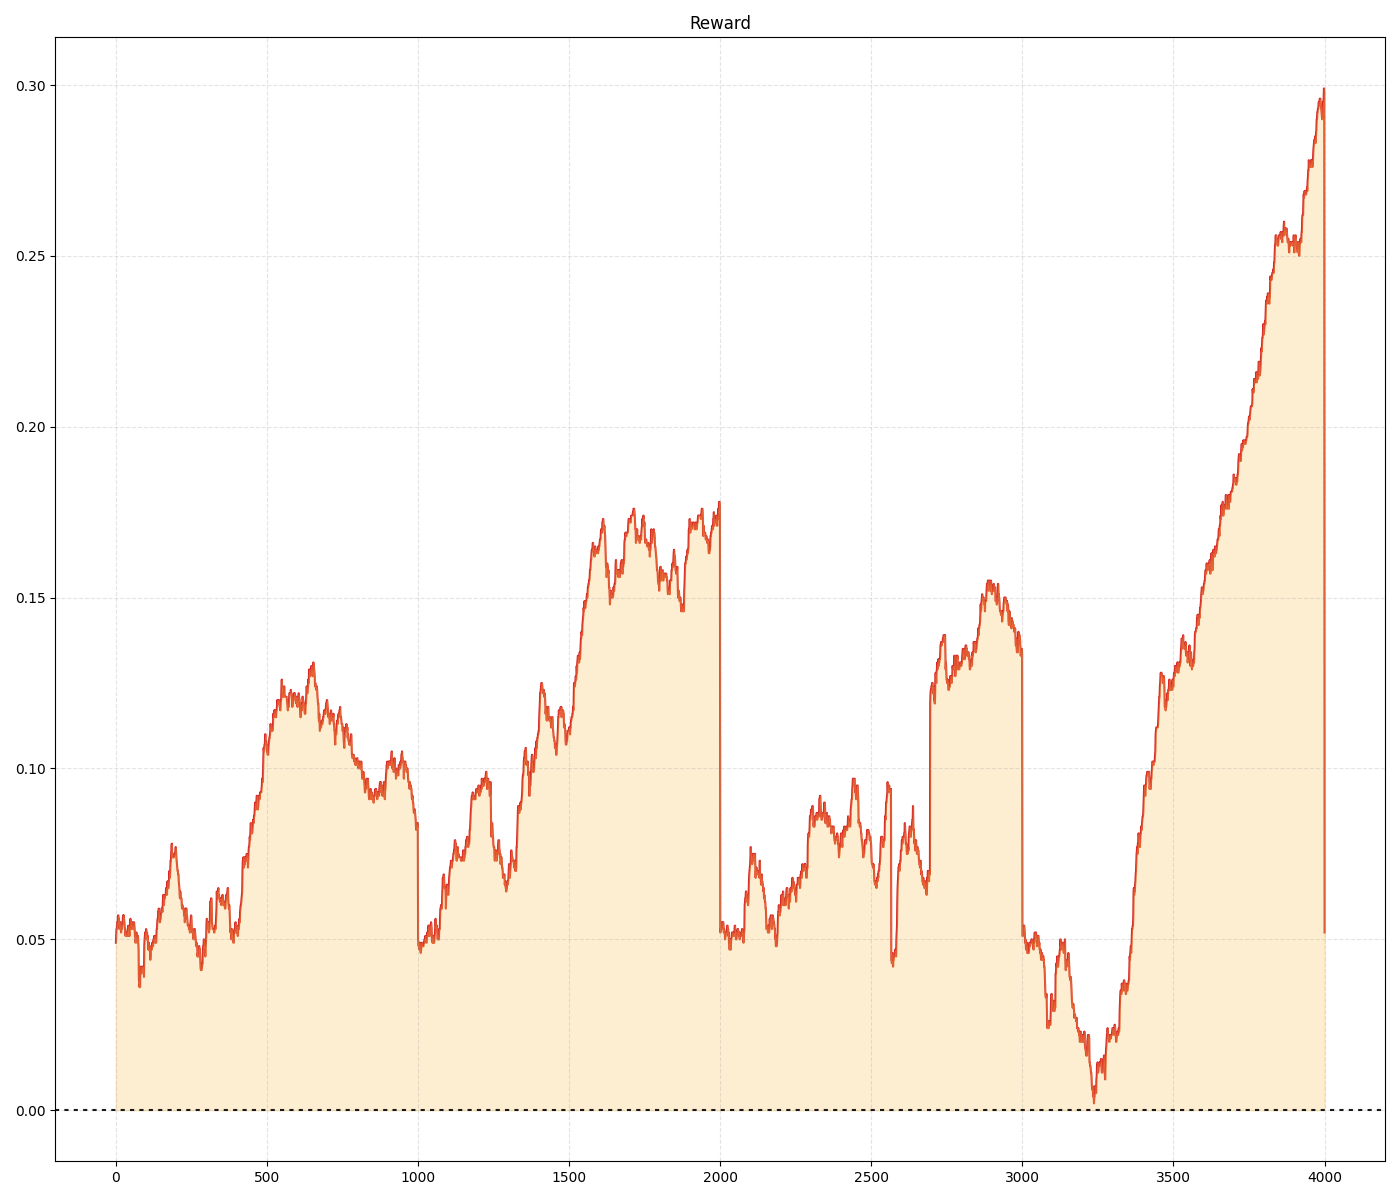
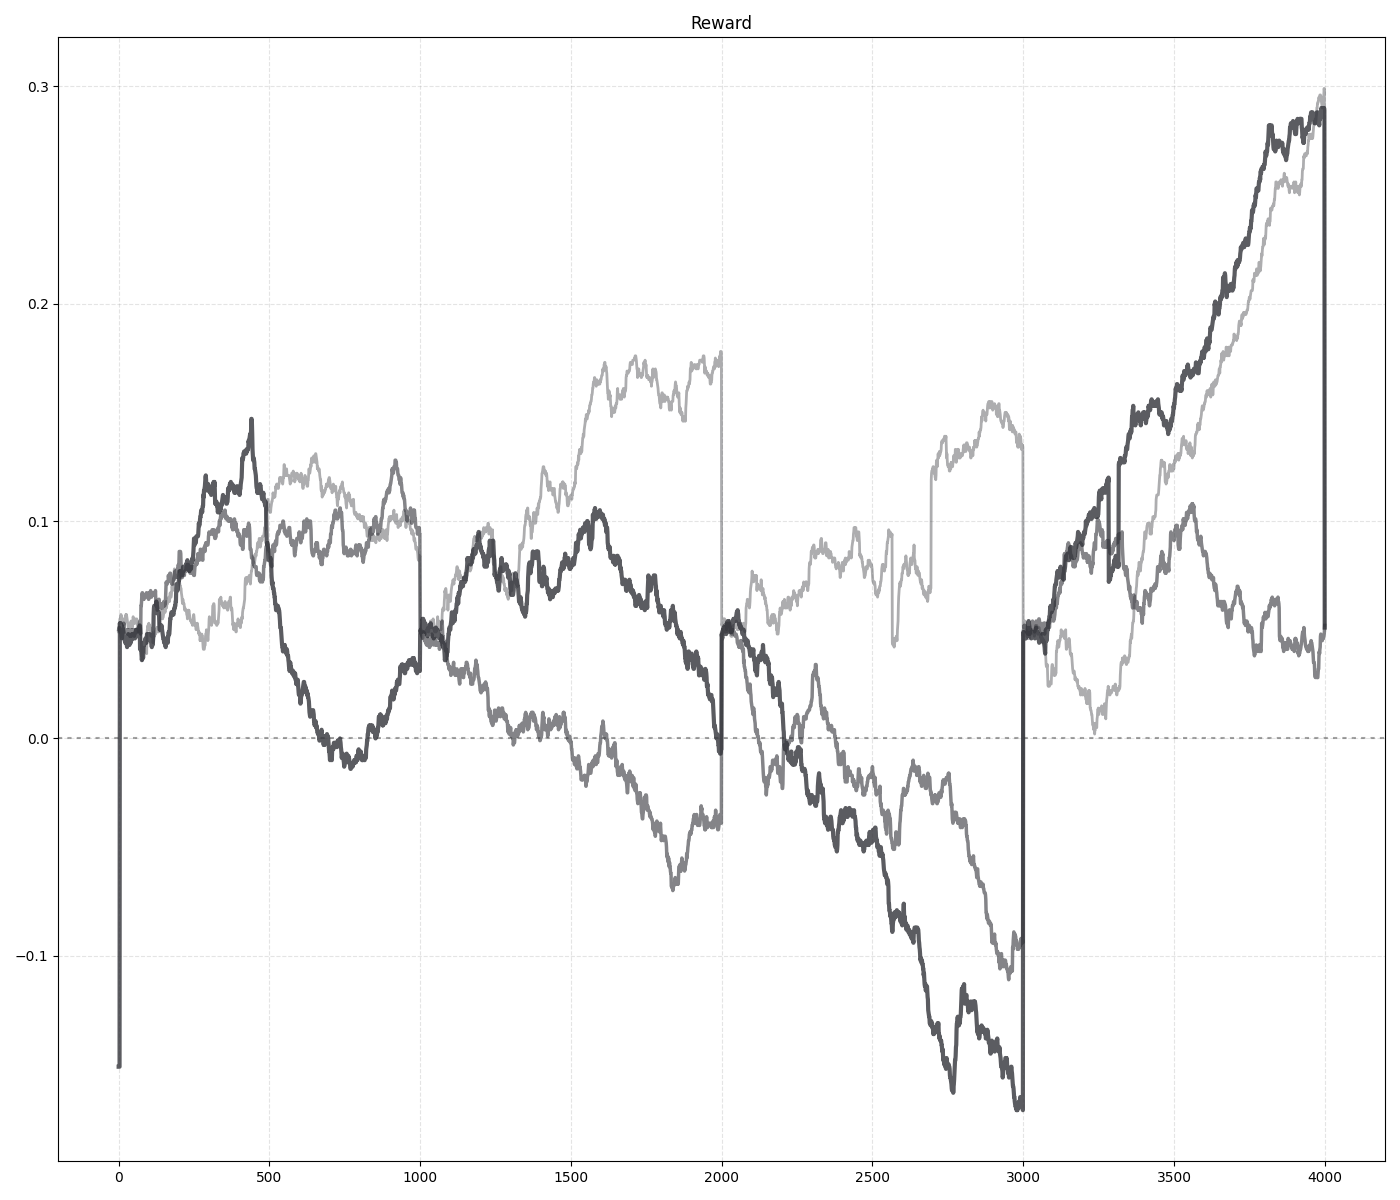
old data on graph

diff --git a/graphlab.py b/graphlab.py
@@ -1,60 +1,115 @@
 import matplotlib.pyplot as plt
 import numpy as np
-import random
+import pickle
 
-
-red_light   = [220/255, 100/255, 100/255]
 red_dark    = [97 /255, 0  /255, 6  /255]
-green_light = [100/255, 200/255, 100/255]
+red_light   = [220/255, 100/255, 100/255]
+orange_dark = [214/255, 40 /255, 40 /255]
+orange      = [255/255, 127/255, 17 /255]
+peach       = [255/255, 176/255, 144/255]
+yellow      = [252/255, 191/255, 73 /255]
+
 green_dark  = [80 /255, 180/255, 80 /255]
+green_light = [100/255, 200/255, 100/255]
+
+teal_dark   = [40 /255, 90 /255, 72 /255]
+teal_medium = [64 /255, 138/255, 113/255]
+teal_light  = [176/255, 228/255, 204/255]
+
+blue_dark   = [56 /255, 82 /255, 180/255]
 blue_light  = [100/255, 100/255, 220/255]
-orange      = [232/255, 127/255, 36 /255]
+
+purple      = [93 /255, 28 /255, 106/255]
+pink        = [202/255, 89 /255, 149/255]
+
 black       = [50 /255, 51 /255, 57 /255]
 true_black  = [0.1,0.1,0.1]
 gray        = [150/255, 150/255, 150/255]
 white       = [1, 1, 1]
 
-teal_light  = [176/255, 228/255, 204/255]
-teal_medium = [64 /255, 138/255, 113/255]
-teal_dark   = [40 /255, 90 /255, 72 /255]
-teal_black  = [9  /255, 20 /255, 19 /255]
+size = (14,12)
 
-Size = (20,20)
+graphPath = r"Graph/"
 
-fig, axs = plt.subplots(1,1,figsize=Size)
+def Reward(graphRewards):
+    print("reward graph")
+    
+    alpha = 1
+    zorder = 2
+    linewidth = 3.5
 
-SizeGraph = 12
-N = 1000
+    fig, ax = plt.subplots(figsize=size)
+    ax.set_title("Reward")
 
-size = 10
-border = 7
+    for graphRewards in allGraphRewards:
+        
+        alpha -= 0.20 
+        linewidth -= 0.5
+        zorder += 1
+        print(zorder)
 
+        ax.plot(graphRewards, color = black, zorder = 3, alpha = alpha,linewidth = linewidth)
 
+        #ax.fill_between(range(len(graphRewards)), np.array(graphRewards), where= np.array(graphRewards) > 0, color = yellow, alpha = alpha/3, interpolate = True,zorder = 1)
+        #ax.fill_between(range(len(graphRewards)), np.array(graphRewards), where= np.array(graphRewards) < 0, color = orange_dark  , alpha = alpha/3, interpolate = True, zorder = 1)
 
-x = []
-y = []
-number = 0
-while number < 5000:
-    #print("random")
-    temporaryX = random.uniform(-size, size)
-    temporaryY = random.uniform(-size, size)
+    ax.axhline(0, color = true_black, linestyle = (0,(2,2.5)), linewidth = 1.5, alpha = alpha)
+    ax.grid(which = "major", alpha = 0.25, linestyle = "--", linewidth = 0.8,color = gray, zorder = 0)
 
-    if temporaryY < -border or temporaryY > border or temporaryX < -border or temporaryX > border:
-        #print("graph")
-        x.append(temporaryX)
-        y.append(temporaryY)
-        number += 1
-
-
-
-
-axs.set_xlim(-SizeGraph, SizeGraph)
-axs.set_ylim(-SizeGraph, SizeGraph)
-
-axs.scatter(x ,y ,s = 50.0, color = red_light)
-
-axs.grid(which = "major", alpha = 0.25, linestyle = "--", linewidth = 0.8,color = gray, zorder = 0)
+    plt.tight_layout()
+    plt.savefig("Graph/Reward.png")
+    plt.close()
 
 
+linesCount = 0
 
-plt.show()
+with open("save.txt") as SaveFile:
+    
+    lines = SaveFile.readlines()
+
+counter = len(lines)
+#print(counter)
+
+
+
+# -- read all the data from the save file --
+num_epochsIndicies          = -1
+graphRewardsIndices         = -2
+episodeLengthIndices        = -3
+numpyGraphPolicyLossIndices = -4
+numpyGraphValueLossIndices  = -5
+graphEpisodeRewardIndices   = -6
+
+allGraphRewards = []
+
+batch = counter//6
+
+batchSize = counter//batch
+print(batchSize)
+print()
+
+for i in range(batch):
+    num_epochs = float(lines[num_epochsIndicies-batchSize*i].strip())
+
+    graphEpisodeReward = lines[graphRewardsIndices-batchSize*i].strip() 
+    graphEpisodeReward = [float(i) for i in graphEpisodeReward[1:-1].split(", ")] 
+
+
+    numpyGraphValueLoss = lines[episodeLengthIndices-batchSize*i].strip()
+    numpyGraphValueLoss = [float(i) for i in numpyGraphValueLoss[1:-1].split(", ")] 
+
+    numpyGraphPolicyLoss = lines[numpyGraphPolicyLossIndices-batchSize*i].strip()
+    numpyGraphPolicyLoss = [float(i) for i in numpyGraphPolicyLoss[1:-1].split(", ")]
+
+    episodeLength = lines[numpyGraphValueLossIndices-batchSize*i].strip()
+    episodeLength = [float(i) for i in episodeLength[1:-1].split(", ")] 
+
+    graphRewards = lines[graphEpisodeRewardIndices-batchSize*i].strip()
+    graphRewards = [float(i) for i in graphRewards[1:-1].split(", ")] # .split(", ") supp the useless part
+
+    allGraphRewards.append(graphRewards)
+    print("a")
+
+
+Reward(allGraphRewards)
+
